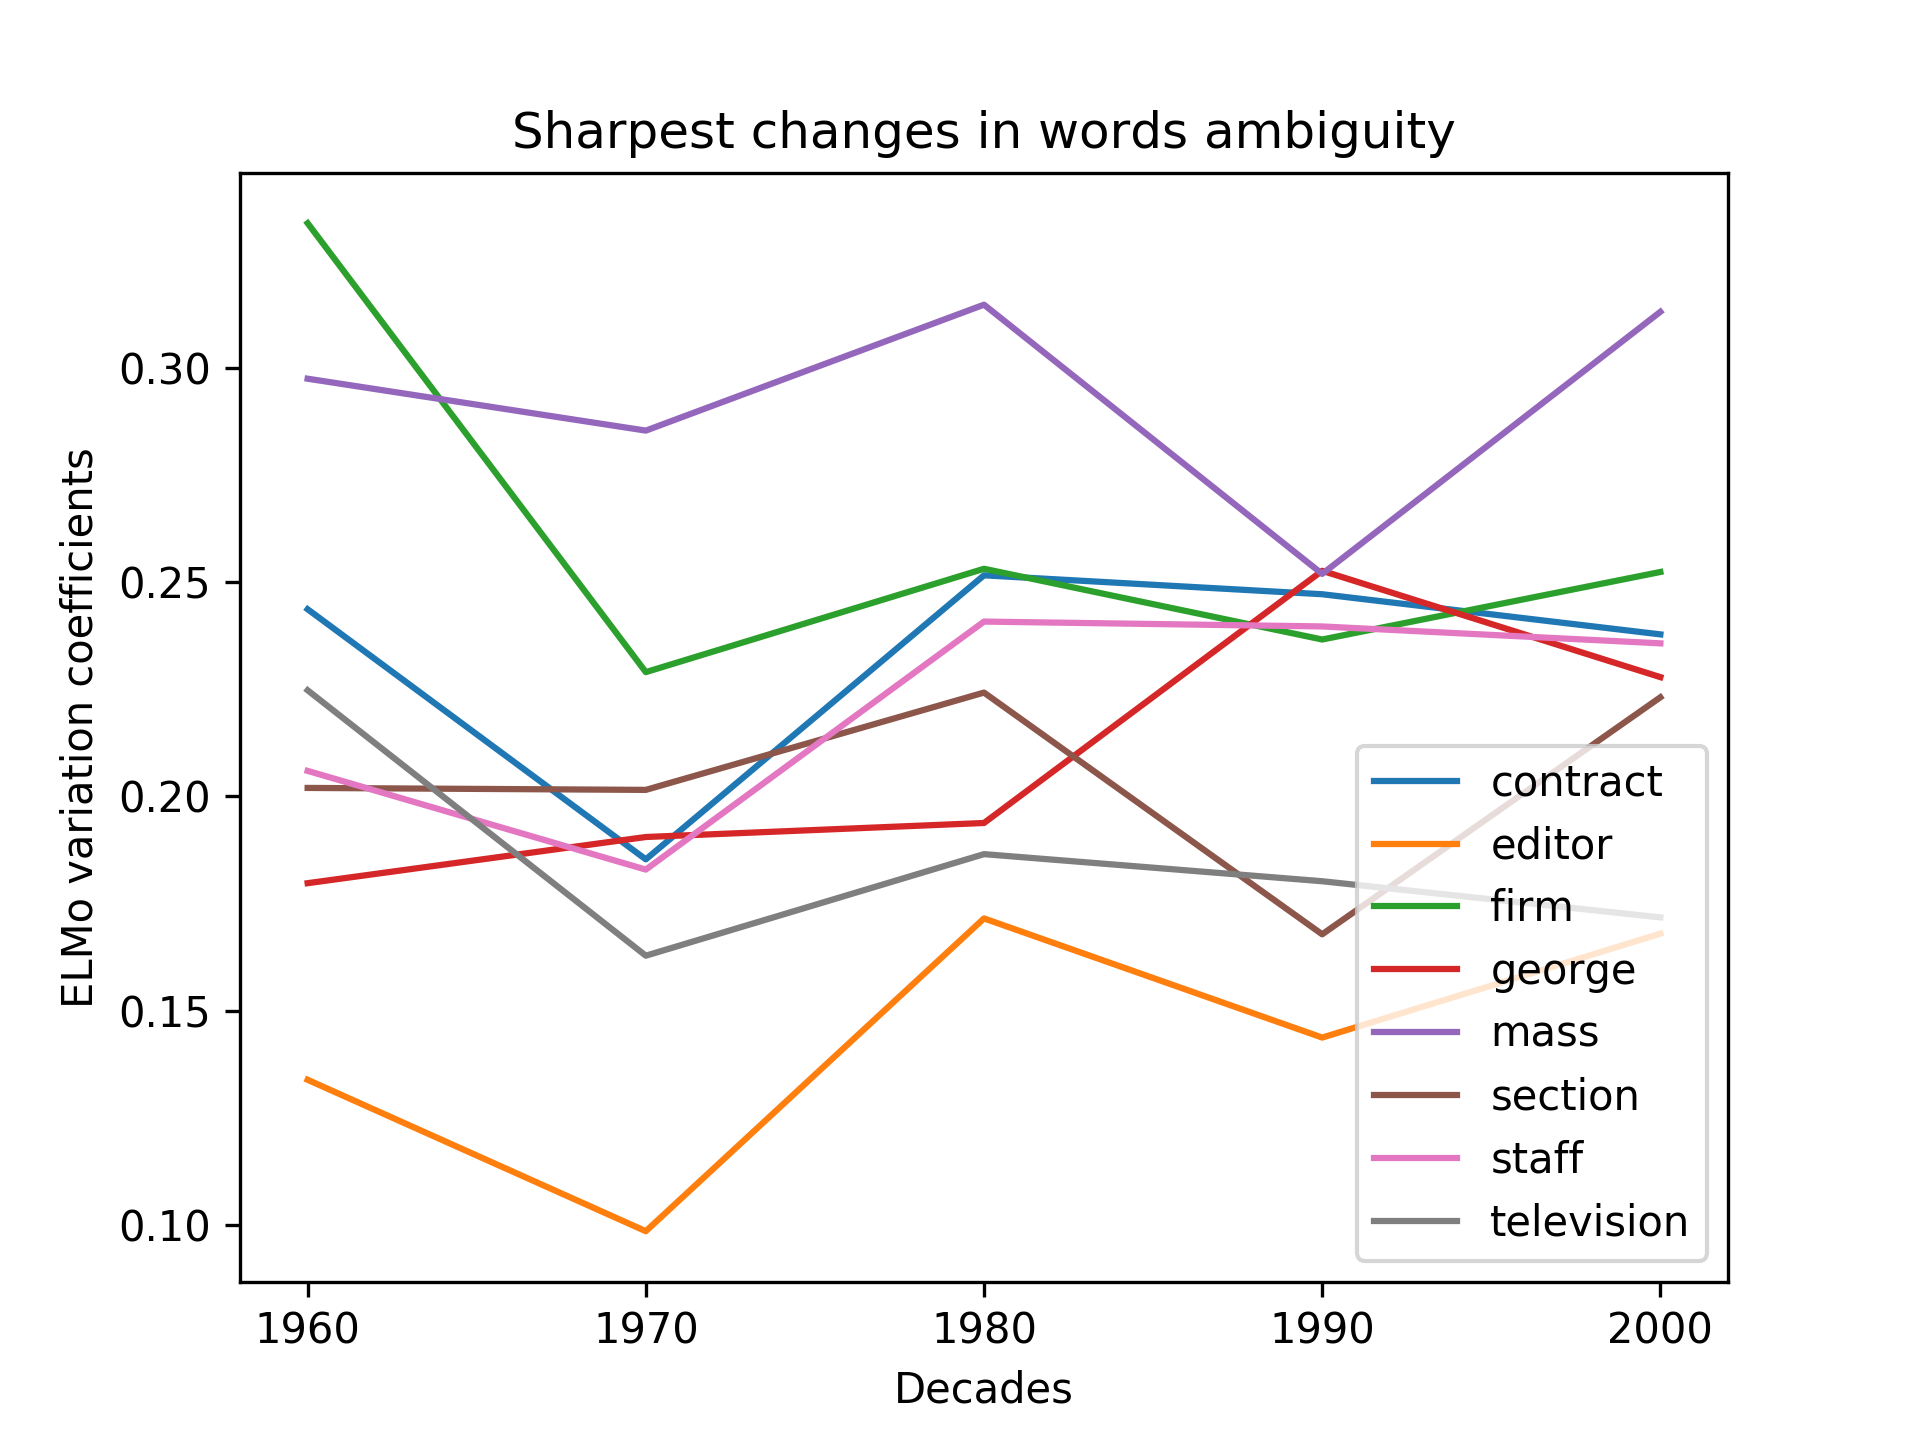
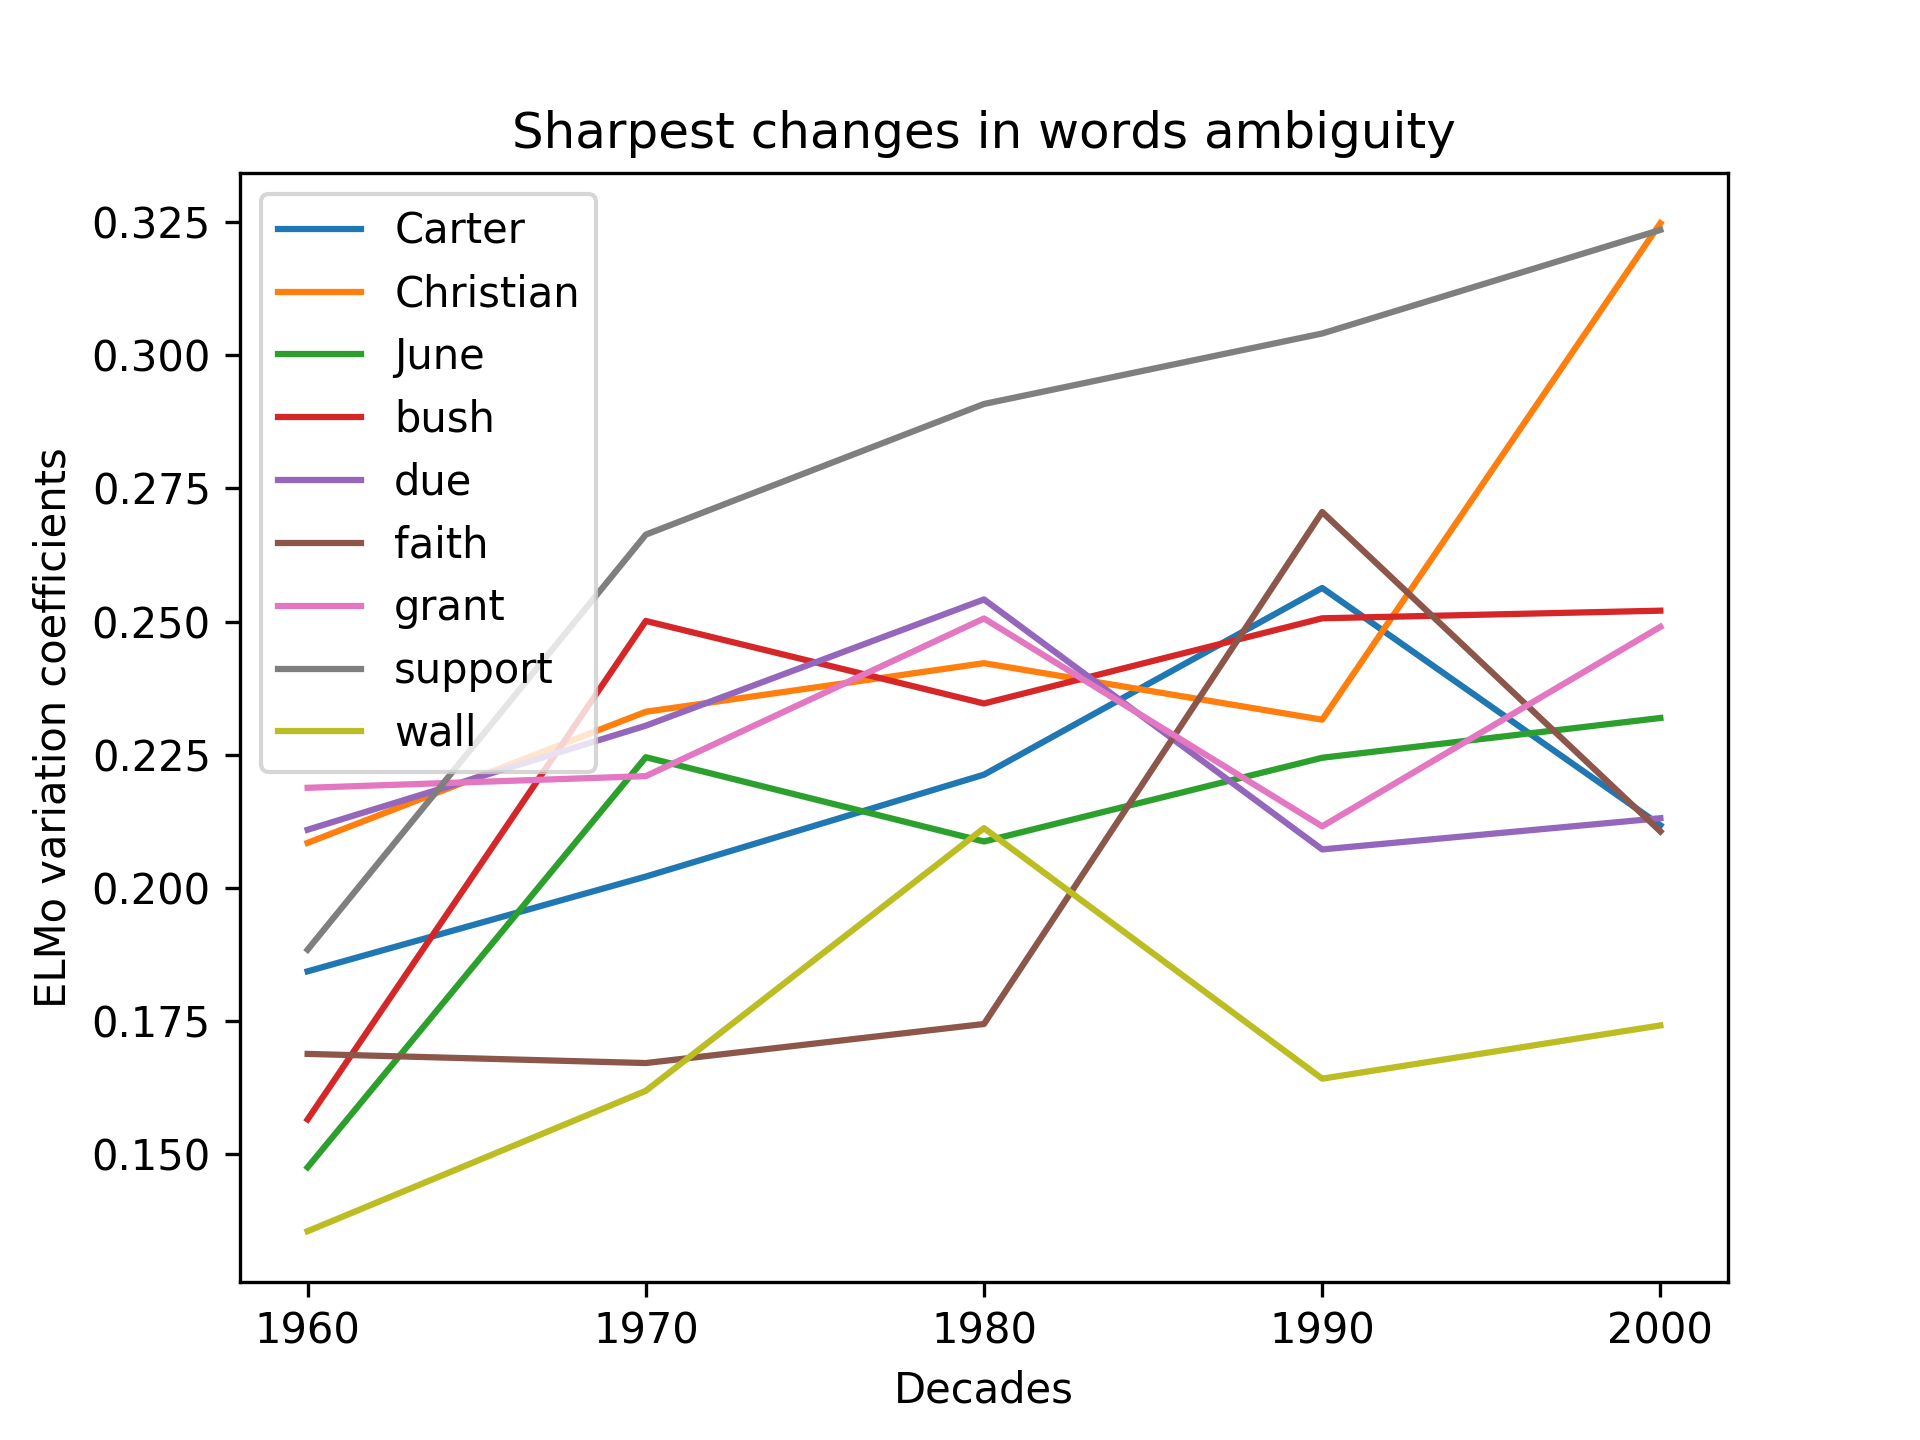
2D plotting

diff --git a/vis_proj.py b/vis_proj.py
@@ -1,0 +1,45 @@
+# python3
+# coding: utf-8
+
+import sys
+import pylab as plot
+import numpy as np
+from sklearn.manifold import TSNE
+from sklearn.decomposition import PCA
+
+if __name__ == '__main__':
+    file2process = sys.argv[1]
+    out = sys.argv[2]
+
+    array = np.load(file2process)['arr_0']
+    word = file2process.split('/')[-1].split('.')[0]
+    year = file2process.split('/')[-2]
+    print('Number of points:', array.shape[0], file=sys.stderr)
+
+    perplexity = 10.0  # Should be smaller than the number of points!
+    embedding_pca = PCA(n_components=2)
+    embedding_tsne = TSNE(n_components=2, perplexity=perplexity, metric='cosine',
+                          n_iter=500, init='pca')
+
+    for name, e in zip(['PCA', 't-SNE'], [embedding_pca, embedding_tsne]):
+        y = e.fit_transform(array)
+
+        print(name, '2-d embedding finished', file=sys.stderr)
+
+        xpositions = y[:, 0]
+        ypositions = y[:, 1]
+
+        plot.clf()
+
+        # for x, y in zip(xpositions, ypositions):
+        plot.scatter(xpositions, ypositions, 5, marker='*', color='green')
+
+        # plot.annotate(lemma, xy=(x - mid, y), size='x-large', weight='bold')
+
+        plot.tick_params(axis='x', which='both', bottom=False, top=False, labelbottom=False)
+        plot.tick_params(axis='y', which='both', left=False, right=False, labelleft=False)
+        plot.title(', '.join([word, year, name]))
+
+        plot.savefig(out + '_' + name + '.png', dpi=300, bbox_inches='tight')
+        plot.close()
+        plot.clf()

diff --git a/visual.py b/visual.py
@@ -14,7 +14,7 @@ if __name__ == '__main__':
     all_coeffs = {}
 
     for f in files2process:
-        name = f.split('/')[1].split('_')[0]
+        name = f.split('/')[-1].split('_')[0]
         all_coeffs[name] = {}
         with open(f) as inp:
             for l in inp.readlines():
@@ -105,5 +105,18 @@ if __name__ == '__main__':
     plot.legend(loc='best')
     # plot.show()
     plot.savefig('elmo_dia_interesting.png', dpi=300)
+    plot.close()
+    plot.clf()
+
+    plot.clf()
+    for word in words:
+        plot.plot(int_years, coeffs[word], label=word)
+    plot_title = 'Sharpest changes in words ambiguity'
+    plot.title(plot_title)
+    plot.xticks(int_years)
+    plot.xlabel('Decades')
+    plot.ylabel('ELMo variation coefficients')
+    # plot.show()
+    plot.savefig('elmo_dia_all.png', dpi=300)
     plot.close()
     plot.clf()
